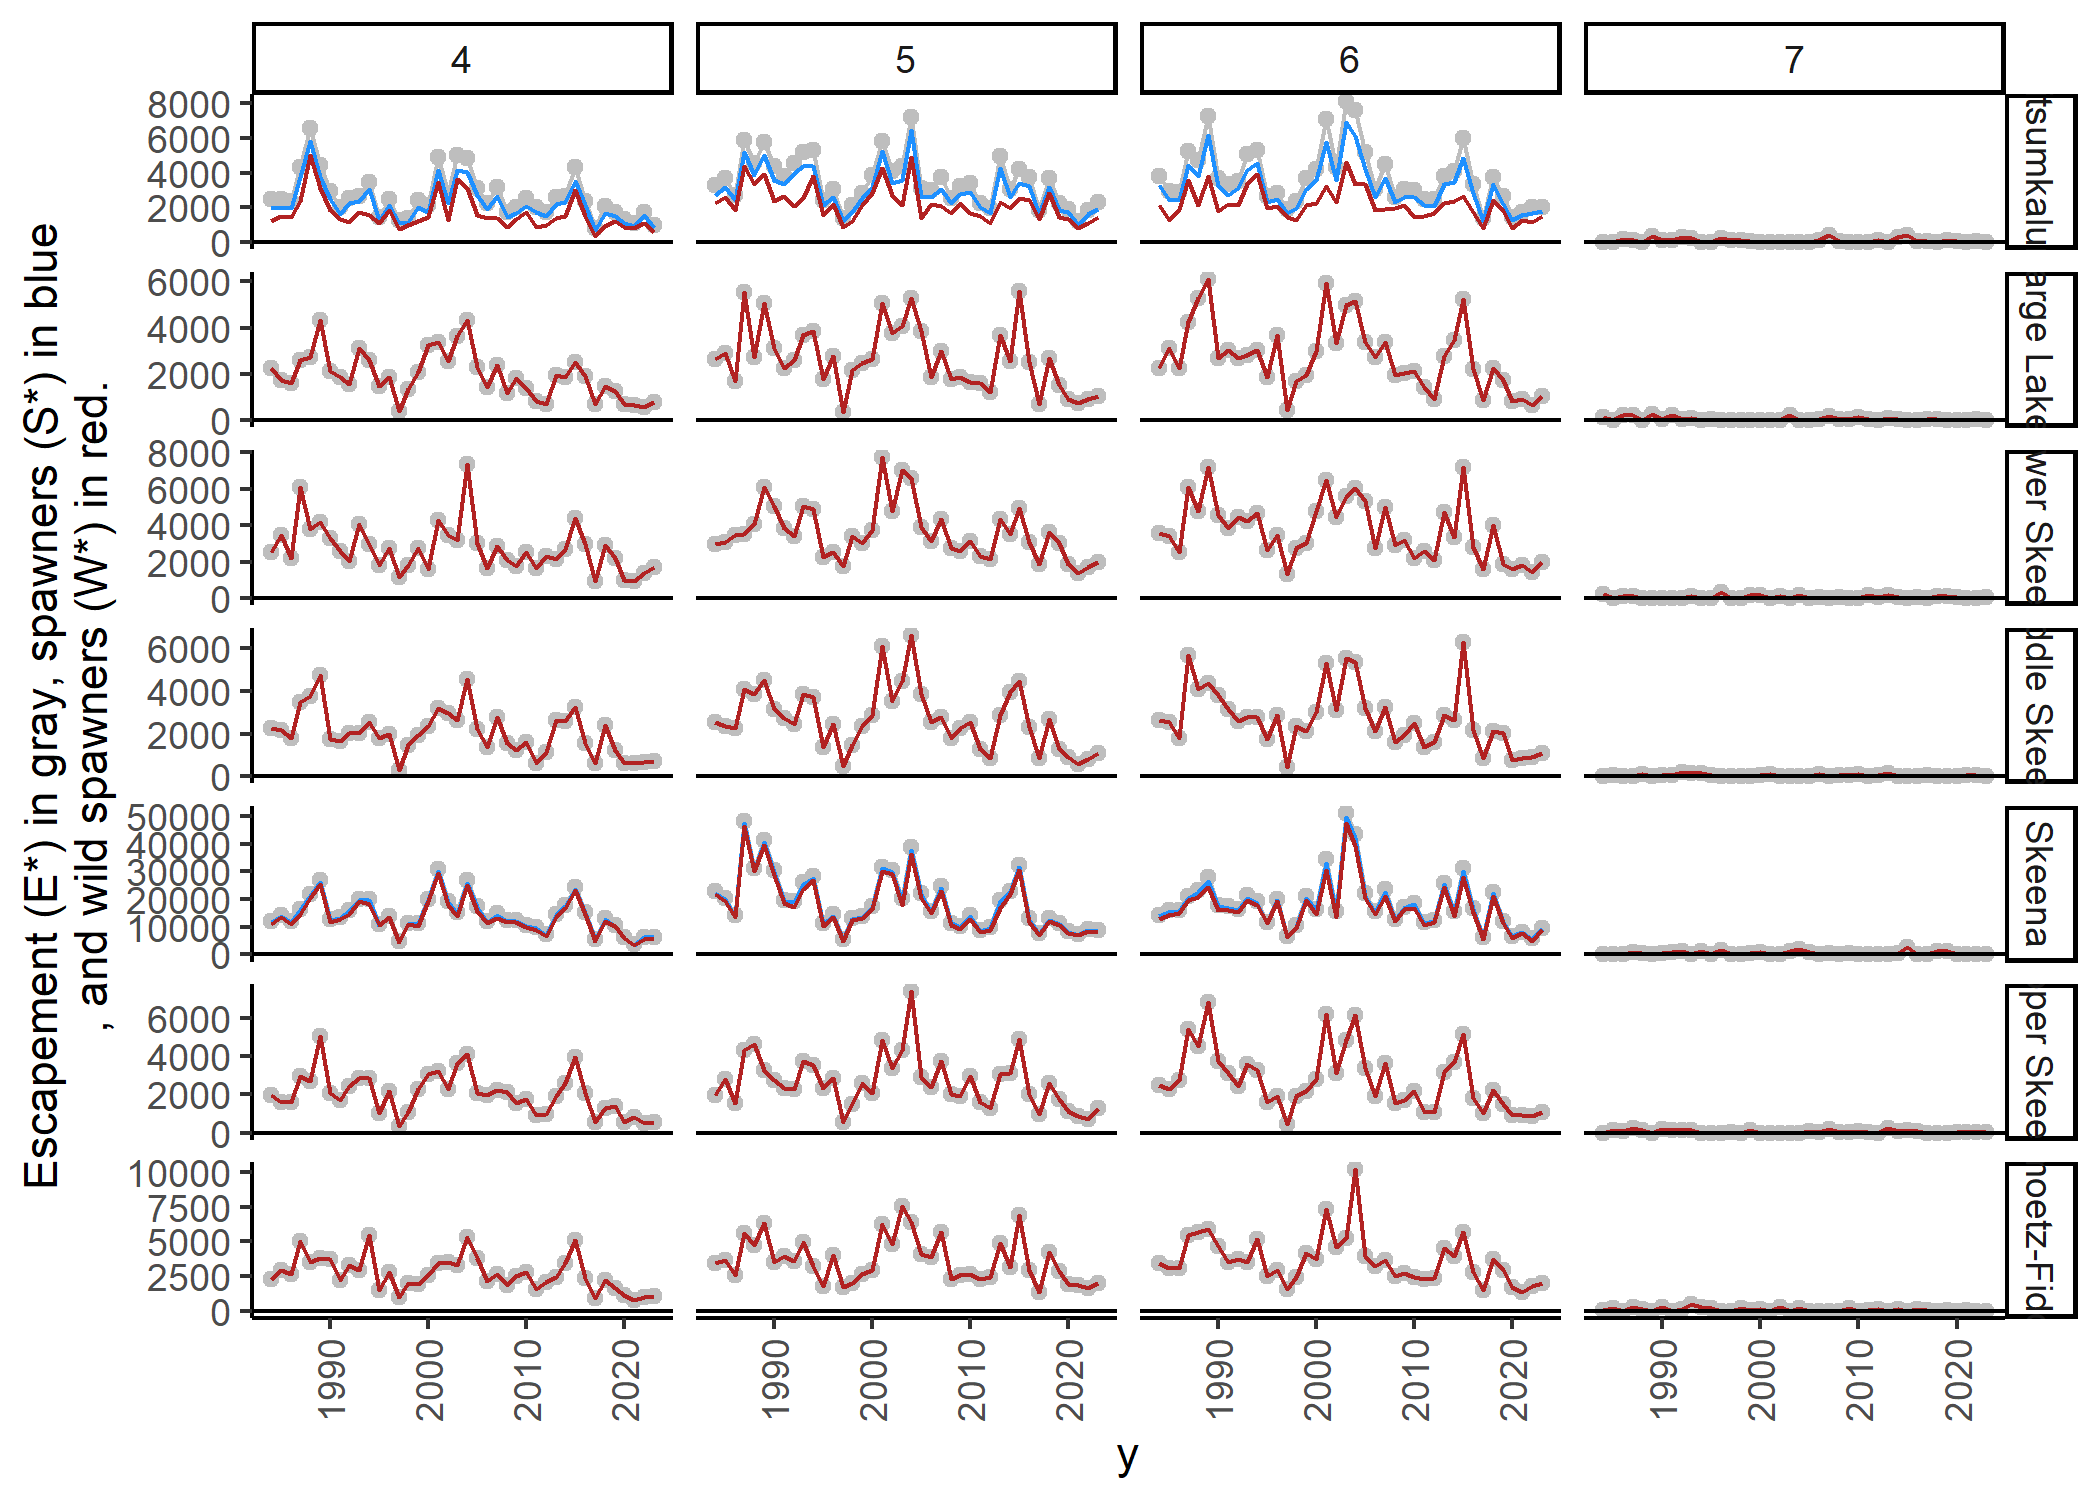
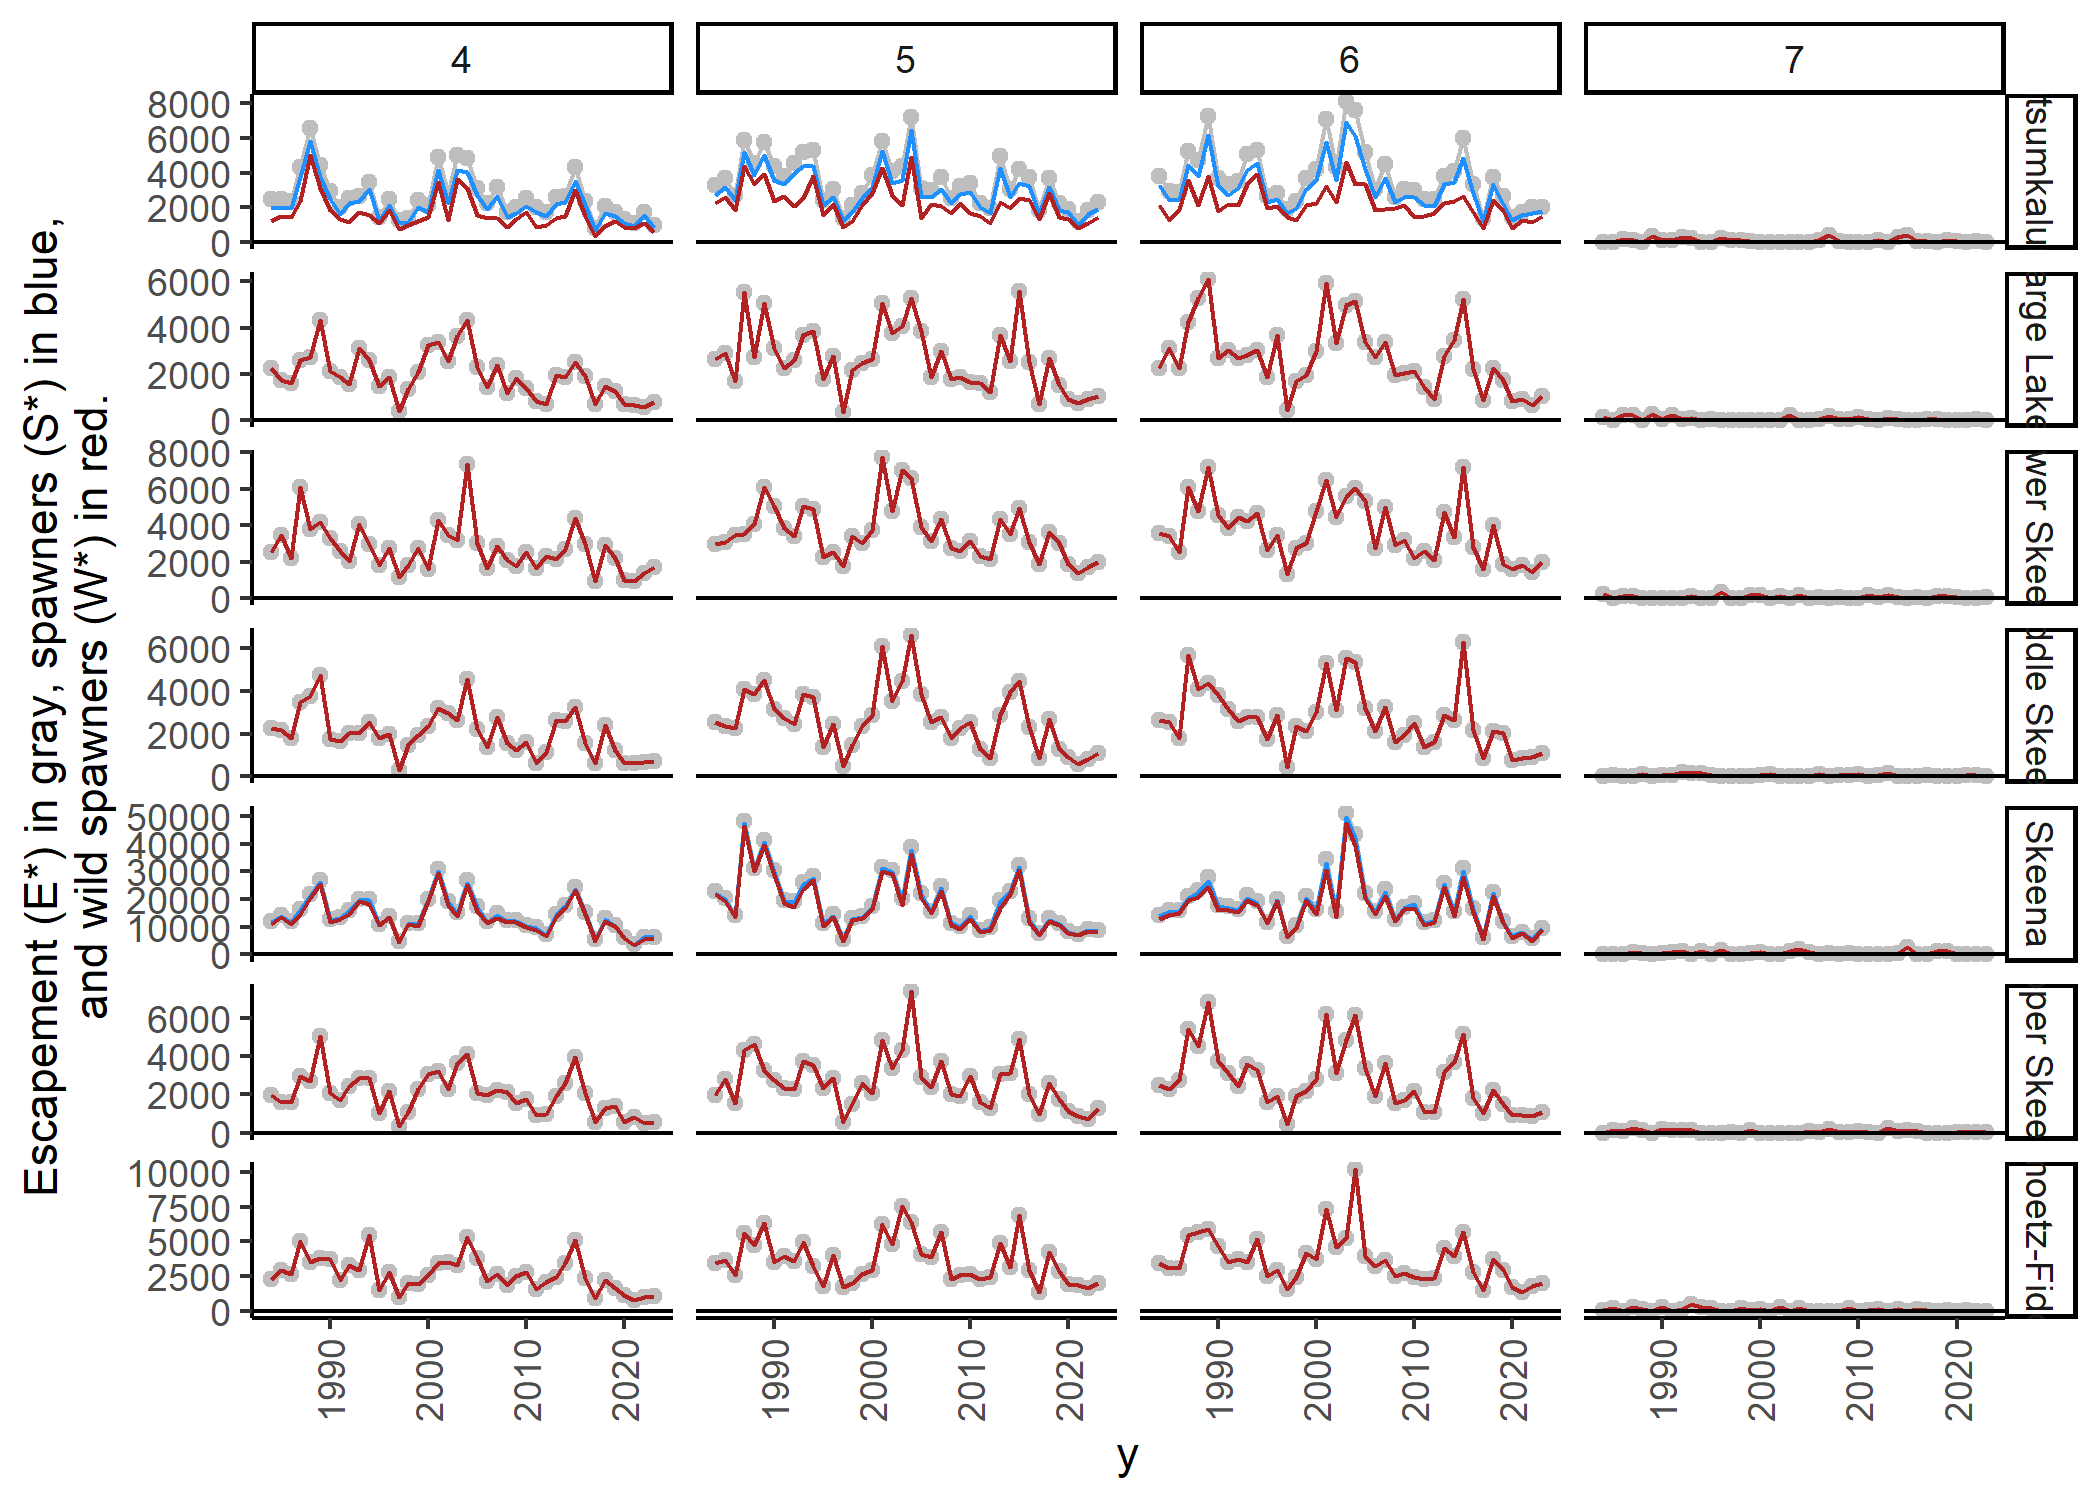
Fig edit

Changed region(s): [[0.0, 0.1533, 0.0619, 0.7973]]

diff --git a/README.md b/README.md
@@ -203,7 +203,7 @@ ggplot( E_star$df, aes(y = E_star, x = y, group = i)) +
   geom_line(data = W_star$df, aes(y = W_star, x = y, group = i), colour="firebrick") +
   geom_hline(aes(yintercept=0)) + 
   facet_grid( i ~ a , scales = "free_y") + 
-  ylab("Escapement (E*) in gray, spawners (S*) in blue\n, and wild spawners (W*) in red.") +
+  ylab("Escapement (E*) in gray, spawners (S*) in blue,\nand wild spawners (W*) in red.") +
   theme_classic() +
   theme(axis.text.x = element_text(angle=90, vjust=0.5))
 ```
